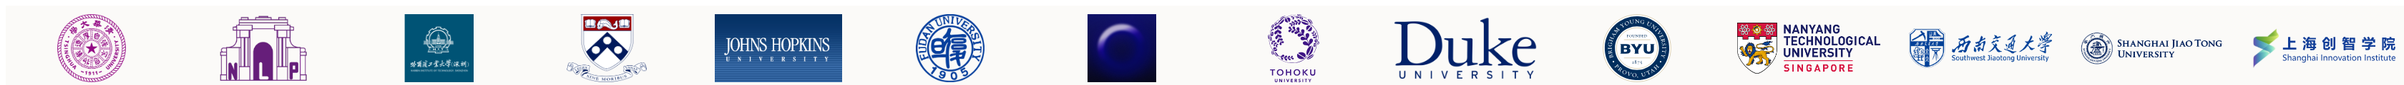
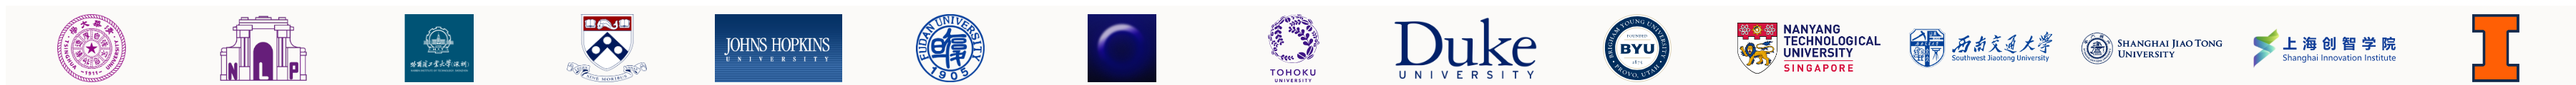
update team

diff --git a/page/team-data.js b/page/team-data.js
@@ -10,14 +10,17 @@ const TEAM = [
     { name: 'Yuxin Zuo*', handle: 'yuxinzuo', affiliation: 'Tsinghua University' },
     { name: 'Yaohui Li', handle: 'lif1014', affiliation: 'Tsinghua University' },
     { name: 'Jiarui Yuan', handle: '1rubbishyuan', affiliation: 'Tsinghua University' },
-    { name: 'Zixuan Fu', handle: 'Zixuan-Fu', affiliation: 'Tsinghua University' },
     { name: 'Yuan Gao', handle: 'Zaogezi', affiliation: 'Tsinghua University' },
-    { name: 'Xin Huang', handle: 'NaCresp', affiliation: 'Tsinghua University' },
+    { name: 'Lifan Yuan', handle: 'lifan-yuan', affiliation: 'University of Illinois Urbana-Champaign' },
+    { name: 'Cheng Qian', handle: 'qiancheng-apodex', affiliation: 'University of Illinois Urbana-Champaign' },
+    { name: 'Zixuan Fu', handle: 'Zixuan-Fu', affiliation: 'Tsinghua University' },
     { name: 'Yaxuan Li', handle: 'YaxuanLi-cn', affiliation: 'Tsinghua University' },
     { name: 'Zixi Chen', handle: 'Jccc1025', affiliation: 'Tsinghua University' },
     { name: 'Shouzheng Huang', handle: 'Huangsz2021', affiliation: 'Harbin Institute of Technology (Shenzhen)' },
     { name: 'Jinyang Wu', handle: 'jinyangwu', affiliation: 'Tsinghua University' },
     { name: 'Junlin Yang', handle: 'YangJL2003', affiliation: 'Tsinghua University' },
+    { name: 'Xin Huang', handle: 'NaCresp', affiliation: 'Tsinghua University' },
+    { name: 'Yicheng He', handle: 'hyc6666hyc', affiliation: 'Tsinghua University' },
     { name: 'Jianing Yin', handle: 'CatherineYin1213', affiliation: 'University of Pennsylvania'},
     { name: 'Ruijia Zhang', handle: 'Richard-ZZZ', affiliation: 'Johns Hopkins University'},
     { name: 'Haoyang Su', handle: 'Hoyant-Su', affiliation: 'Fudan University, Shanghai Innovation Institute'},
@@ -28,7 +31,9 @@ const TEAM = [
     { name: 'Kaixiang Zhao', handle: 'kzhao5', affiliation: 'Brigham Young University'},
     { name: 'Zhizhou Wang', handle: 'Jeffjeno', affiliation: 'Southwest Jiaotong University'},
     { name: 'Jialin Ren', handle: 'BugSmith', affiliation: 'Tsinghua University'},
-    { name: 'Shulin Tian', handle: 'shulin16', affiliation: 'Nanyang Technological University'}
+    { name: 'Shulin Tian', handle: 'shulin16', affiliation: 'Nanyang Technological University'},
+    { name: 'Haoxuan Pan', handle: 'merak0514', affiliation: 'Tsinghua University'},
+    { name: 'Qingfeng He', handle: 'heqf21', affiliation: 'Tsinghua University'}
 ];
 
 /* The institution wall below the team grid is derived from the affiliations
@@ -53,11 +58,11 @@ const INSTITUTION_INSERTS = [
 ];
 
 /* The logos on the Team page all live in one image, images/institutions.png:
-   a single row of 14 cells (120x60 each, rendered at 2x -> 3360x120).
+   a single row of 15 cells (120x60 each, rendered at 2x -> 3600x120).
    INSTITUTION_LOGOS maps each institution to its cell. To add an
    institution, drop its logo file into page/scripts/institutions/
    (untracked), extend compose-strip.html there, and re-render it headless
-   at window-size 3360x120. */
+   at window-size 3600x120. */
 const INSTITUTION_LOGOS = {
     'Tsinghua University': 0,
     'THUNLP': 1,
@@ -72,5 +77,6 @@ const INSTITUTION_LOGOS = {
     'Nanyang Technological University': 10,
     'Southwest Jiaotong University': 11,
     'Shanghai Jiao Tong University': 12,
-    'Shanghai Innovation Institute': 13
+    'Shanghai Innovation Institute': 13,
+    'University of Illinois Urbana-Champaign': 14
 };

diff --git a/page/styles.css b/page/styles.css
@@ -4235,7 +4235,7 @@ body.team-page .guide-main { max-width: 1160px; padding: 7.5rem 3rem 7rem; }
 }
 .institution-grid {
     display: grid;
-    grid-template-columns: repeat(7, minmax(0, 1fr));
+    grid-template-columns: repeat(5, minmax(0, 1fr));
     gap: 1.5rem 1rem;
     list-style: none;
 }
@@ -4252,8 +4252,8 @@ body.team-page .guide-main { max-width: 1160px; padding: 7.5rem 3rem 7rem; }
     width: 120px;
     height: 60px;
     flex: none;
-    background-image: url("images/institutions.png?v=6");
-    background-size: 1680px 60px;
+    background-image: url("images/institutions.png?v=7");
+    background-size: 1800px 60px;
     background-repeat: no-repeat;
     background-position: calc(var(--cell, 0) * -120px) 0;
 }
@@ -4267,8 +4267,8 @@ body.team-page .guide-main { max-width: 1160px; padding: 7.5rem 3rem 7rem; }
 }
 
 @media (max-width: 1024px) {
-    /* 14 institutions flow into 4 columns. */
-    .institution-grid { grid-template-columns: repeat(4, minmax(0, 1fr)); }
+    /* 15 institutions flow into an exact 3x5. */
+    .institution-grid { grid-template-columns: repeat(3, minmax(0, 1fr)); }
 }
 @media (max-width: 960px) {
     .team-grid { grid-template-columns: repeat(2, minmax(0, 1fr)); }

diff --git a/page/team.html b/page/team.html
@@ -5,7 +5,7 @@
     <meta name="viewport" content="width=device-width, initial-scale=1.0">
     <title>Team - AutoRLBench</title>
     <link rel="icon" type="image/png" href="images/favicon.png">
-    <link rel="stylesheet" href="styles.css?v=20261117-2">
+    <link rel="stylesheet" href="styles.css?v=20261118-1">
 </head>
 <body class="guide-page team-page">
     <!-- Aurora orbs — decorative, hidden from assistive tech -->
@@ -63,8 +63,8 @@
         <div class="footer-bottom">&copy; 2026 AutoRLBench. Released under Apache-2.0 License.</div>
     </footer>
 
-    <script src="team-data.js?v=20261117-2"></script>
-    <script src="team.js?v=20261117-2"></script>
+    <script src="team-data.js?v=20261118-1"></script>
+    <script src="team.js?v=20261118-1"></script>
     <script src="globe.js?v=20261020-1"></script>
 </body>
 </html>
